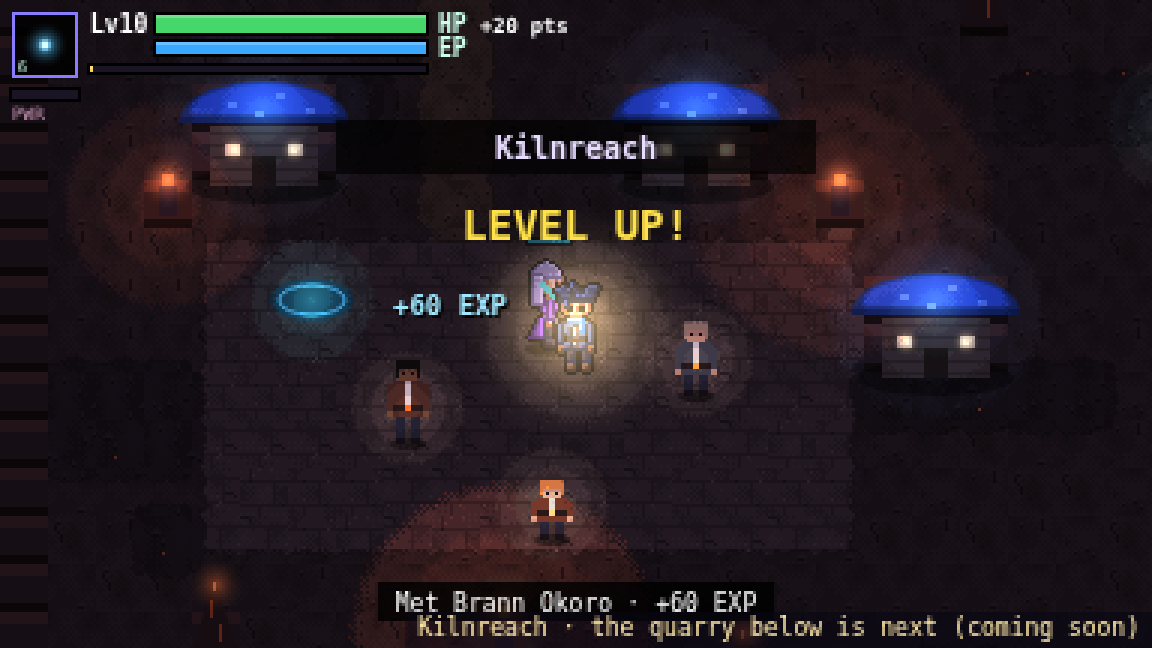
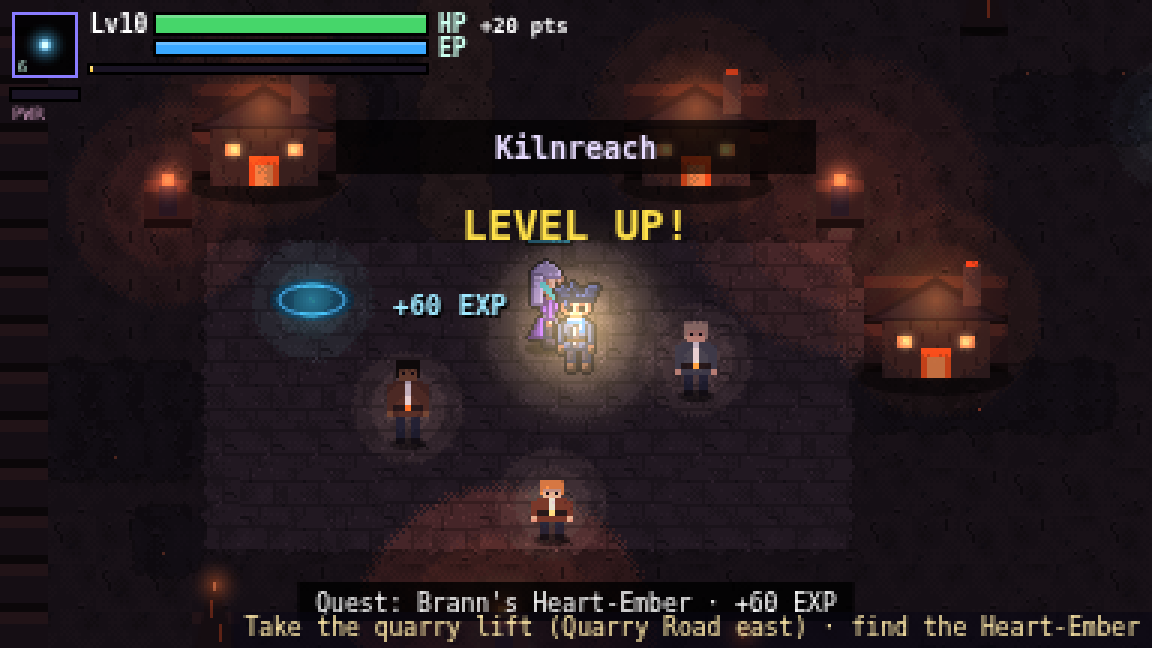
W7: forge houses, Emberheart Quarry + boss arena slot, Brann quest (flags.brann)

diff --git a/src/areas/art.ts b/src/areas/art.ts
@@ -42,6 +42,16 @@ export function tile(c: C2, theme: "moss" | "marsh" | "ember", v: number, X: num
   else { const p = v === T_MOSS ? P.moss : v === T_PATH ? P.path : P.floor; c.fillStyle = p[ch]; c.fillRect(X, Y, TILE, TILE); }
 }
 
+function forge(c: C2, x: number, y: number) {
+  // ember-theme house: stone smithy with slate roof, chimney and a glowing forge mouth
+  c.fillStyle = "rgba(0,0,0,.45)"; c.beginPath(); c.ellipse(x, y + 10, 26, 6, 0, 0, 7); c.fill();
+  c.fillStyle = "#4a3a34"; c.fillRect(x - 18, y - 10, 36, 20); c.fillStyle = "#3a2c28"; for (let i = 0; i < 5; i++) for (let j = 0; j < 4; j++) c.fillRect(x - 18 + j * 9 + (i % 2) * 4, y - 9 + i * 4, 1, 3);
+  c.fillStyle = "#ff7a2a"; c.fillRect(x - 5, y, 10, 10); c.fillStyle = "#ffd070"; c.fillRect(x - 3, y + 3, 6, 7);
+  c.fillStyle = "#ffb060"; c.fillRect(x - 13, y - 4, 5, 4); c.fillRect(x + 8, y - 4, 5, 4);
+  c.fillStyle = "#2a2226"; c.beginPath(); c.moveTo(x - 24, y - 9); c.lineTo(x, y - 24); c.lineTo(x + 24, y - 9); c.fill();
+  c.fillStyle = "#3a3036"; c.beginPath(); c.moveTo(x - 20, y - 10); c.lineTo(x, y - 21); c.lineTo(x + 20, y - 10); c.fill();
+  c.fillStyle = "#5a4a44"; c.fillRect(x + 9, y - 28, 6, 14); c.fillStyle = "#ff6a2a"; c.fillRect(x + 10, y - 29, 4, 2);
+}
 function house(c: C2, x: number, y: number) {
   // 3x2 tile footprint centred at (x, y): wooden walls under a giant blue mushroom cap
   c.fillStyle = "rgba(0,0,0,.4)"; c.beginPath(); c.ellipse(x, y + 10, 26, 6, 0, 0, 7); c.fill();
@@ -104,7 +114,7 @@ export function worldSprites(c: C2, g: Game, cx: number, cy: number, list: { y: 
   for (const p of a.props) {
     const X = p.x - cx, Y = p.y - cy;
     if (X < -40 || X > 424 || Y < -40 || Y > 260) continue;
-    list.push({ y: p.y + (p.kind === "house" ? 8 : 0), d: () => p.kind === "house" ? house(c, X, Y) : p.kind === "crystal" ? crystal(c, X, Y) : p.kind === "tree" ? (a.theme === "ember" ? spire(c, X, Y) : tree(c, X, Y, marsh)) : grave(c, X, Y) });
+    list.push({ y: p.y + (p.kind === "house" ? 8 : 0), d: () => p.kind === "house" ? (a.theme === "ember" ? forge(c, X, Y) : house(c, X, Y)) : p.kind === "crystal" ? crystal(c, X, Y) : p.kind === "tree" ? (a.theme === "ember" ? spire(c, X, Y) : tree(c, X, Y, marsh)) : grave(c, X, Y) });
   }
   for (const n of a.npcs) list.push({ y: n.y, d: () => npc(c, n.id, a.id, n.x - cx, n.y - cy, g.time) });
   for (const s of a.travel) {
@@ -119,7 +129,7 @@ export function bindStory(s: Story) { st = s; }
 /** Light sources for the multiply layer. */
 export function worldLights(g: Game, cx: number, cy: number, add: (x: number, y: number, r: number, col: [number, number, number], f: number) => void) {
   for (const p of g.area.props) if (p.kind === "crystal") add(p.x - cx, p.y - cy - 8, 40, [0.45, 0.95, 1], 0);
-  for (const p of g.area.props) if (p.kind === "house") add(p.x - cx, p.y - cy - 12, 56, [0.35, 0.55, 1], 0);
+  for (const p of g.area.props) if (p.kind === "house") add(p.x - cx, p.y - cy - 12, 56, g.area.theme === "ember" ? [1, 0.5, 0.2] : [0.35, 0.55, 1], 0);
   for (const s of g.area.travel) add(s.x - cx, s.y - cy, 52, [0.7, 0.9, 1], 0);
   for (const n of g.area.npcs) add(n.x - cx, n.y - cy - 12, 30, [0.8, 0.75, 0.7], 0);
   for (const s of g.area.springs) add(s.x - cx, s.y - cy, 60, [0.5, 1, 0.8], 0);
@@ -128,7 +138,7 @@ export function worldLights(g: Game, cx: number, cy: number, add: (x: number, y:
 /** Additive glows after the light layer. */
 export function worldGlow(c: C2, g: Game, cx: number, cy: number, glow: (c: C2, x: number, y: number, r: number, col: string, a?: number) => void) {
   for (const p of g.area.props) {
-    if (p.kind === "house") { glow(c, p.x - cx, p.y - cy - 16, 22, "rgba(80,140,255,.35)"); glow(c, p.x - cx - 10, p.y - cy - 2, 5, "rgba(255,210,140,.7)"); glow(c, p.x - cx + 10, p.y - cy - 2, 5, "rgba(255,210,140,.7)"); }
+    if (p.kind === "house") { glow(c, p.x - cx, p.y - cy - 16, 22, g.area.theme === "ember" ? "rgba(255,120,40,.35)" : "rgba(80,140,255,.35)"); glow(c, p.x - cx - 10, p.y - cy - 2, 5, "rgba(255,210,140,.7)"); glow(c, p.x - cx + 10, p.y - cy - 2, 5, "rgba(255,210,140,.7)"); }
     else if (p.kind === "crystal") glow(c, p.x - cx + 2, p.y - cy - 8, 14, "rgba(120,240,255,.5)");
     else if (p.kind === "tree") glow(c, p.x - cx, p.y - cy - 17, 10, g.area.theme === "marsh" ? "rgba(170,110,255,.45)" : g.area.theme === "ember" ? "rgba(255,110,40,.4)" : "rgba(90,220,240,.4)");
   }
@@ -201,7 +211,7 @@ export function areaMap(c: C2, g: Game, ox: number, oy: number, s: number) {
 
 /** World-map flight screen: the Mirrorfen Reaches, a dotted route and the hero's glow riding the updraft. */
 const SPOTS: Record<string, { x: number; y: number; name: string }> = {
-  lanternmoss: { x: 0.28, y: 0.58, name: "Lanternmoss Hollow" }, hushwater: { x: 0.7, y: 0.38, name: "Hushwater" }, kilnreach: { x: 0.86, y: 0.72, name: "Kilnreach" },
+  lanternmoss: { x: 0.28, y: 0.58, name: "Lanternmoss Hollow" }, hushwater: { x: 0.7, y: 0.38, name: "Hushwater" }, kilnreach: { x: 0.86, y: 0.72, name: "Kilnreach" }, emberquarry: { x: 0.9, y: 0.84, name: "Emberheart Quarry" },
 };
 const LOCKED = [{ x: 0.3, y: 0.8, name: "Wellspring Grotto" }, { x: 0.52, y: 0.16, name: "???" }];
 function flightMap(c: C2, g: Game, s: Story, W: number, H: number) {

diff --git a/src/story/index.ts b/src/story/index.ts
@@ -84,6 +84,7 @@ export class Story {
     }
     for (const s of g.area.travel) if (Math.hypot(s.x - g.p.x, s.y - g.p.y) < 10 && !this.flags.stoneT) {
       this.flags.stoneT = true;
+      if (s.to === "emberquarry" && !this.flags.brannQ) { this.say("Quarry lift", ["A rune-lift down into the quarry. It's locked with a smith's seal.", "Brann in Forge Square would have the key."]); return true; }
       if (s.to === "kilnreach" && !this.flags.oath) { this.say("Updraft stone", ["This slab is cold and points east, toward a red glow on the mountains.", "It won't wake for a stranger. Maybe after Mirela trusts you."]); return true; }
       this.say("Updraft stone", [`The rune slab hums. Ride the updraft to ${s.label}?`, "(Melee to fly. Step off to stay.)"], () => { this.fly = 3.2; this.flyTo = s.to; this.flyFrom = g.area.id; });
       return true;
@@ -103,6 +104,7 @@ export class Story {
       const k = `orb_${g.area.id}_${o.i}`;
       if (!this.flags[k] && Math.hypot(o.x - g.p.x, o.y + 6 - g.p.y) < 14) {
         this.flags[k] = true;
+        if (g.area.id === "emberquarry") { this.flags.heart = true; this.save(); g.say("Found Brann's Heart-Ember · bring it to Brann", 2.5); continue; }
         if (g.area.id !== "lanternmoss") { this.flags.bell = true; this.save(); g.say("Found the Ferry Bell · bring it to Fen Marrow", 2.5); continue; }
         this.flags.orbs = ((this.flags.orbs as number) || 0) + 1; this.save();
         const st = g.stats as Record<string, number>; st.talks = (st.talks ?? 0) + 1;
@@ -128,14 +130,16 @@ export class Story {
       if (id === "f" && F.bell && !F.bellDone) { F.bellDone = true; g.gainExp(80); g.say("Ferry Bell returned · +80 EXP", 2.5); }
       if (id === "h") { if (!F.reedQ) F.reedQ = true; else if ((F.reedN as number) >= 8 && !F.reedDone) { F.reedDone = true; g.gainExp(100); g.pts += 2; g.say("Quiet the Meadow complete · +100 EXP, +2 pts", 2.5); } }
       if (id === "m" && F.bellDone && F.reedDone && !F.oath) { F.oath = true; g.gainExp(150); g.say("Lantern Oath · Mirela will join you · +150 EXP", 3); }
-      if (id === "k" && !F.metBrann) { F.metBrann = true; g.gainExp(60); g.say("Met Brann Okoro · +60 EXP", 2.5); }
+      if (id === "k" && !F.metBrann) { F.metBrann = true; F.brannQ = true; g.gainExp(60); g.say("Quest: Brann's Heart-Ember · +60 EXP", 2.5); }
+      else if (id === "k" && F.heart && !F.brann) { F.brann = true; g.gainExp(150); g.pts += 2; g.say("Heart-Ember returned · Brann will join you · +150 EXP", 3); }
       if (id === "p" && (this.flags.orbs as number) >= 6 && !this.flags.orbsDone) { this.flags.orbsDone = true; g.gainExp(120); g.say("Lost Lanterns complete · +120 EXP", 2.5); }
       this.flags["talked_" + g.area.id + id] = true; this.save();
     });
   }
   objective(): string {
     const f = this.flags, g = this.g;
-    if (g.area.id === "kilnreach") return f.metBrann ? "Kilnreach · the quarry below is next (coming soon)" : "Find the quarry-smith in Forge Square";
+    if (g.area.id === "kilnreach") return f.brann ? "Brann is with you · the Quarry Heart waits below" : f.heart ? "Bring the Heart-Ember to Brann" : f.metBrann ? "Take the quarry lift (Quarry Road east) · find the Heart-Ember" : "Find the quarry-smith in Forge Square";
+    if (g.area.id === "emberquarry") return f.heart ? (f.brann ? "The Quarry Heart: something drinks the embers" : "Return the Heart-Ember to Brann") : "Find Brann's Heart-Ember in the seam";
     if (g.area.id === "hushwater") {
       if (!f.metMirela) return "Find the graveyard keeper on the hill";
       if (f.oath) return "Mirela is with you · Grotto in Lanternmoss · east stone wakes";

diff --git a/src/areas/maps.ts b/src/areas/maps.ts
@@ -103,7 +103,7 @@ export const KILNREACH = [
   "#..............................................#",
   "#...T.....L,,,.................................#",
   "#.....####.....T...,,,.....................,,,.#",
-  "#.....#####.......::::::::::::::::::::T:.......#",
+  "#.....#####.......::::::::::::::::::::T:.Y.....#",
   "#....#######...................................#",
   "#....#######..............g...,,,.,,,.#.###.g,,#",
   "#.....#####.........w............w...#######...#",
@@ -114,3 +114,43 @@ export const KILNREACH = [
   "#................,,,.##.................##,...,#",
   "################################################",
 ];
+
+/** Emberheart Quarry: lava-lit tunnels under Kilnreach; the round chamber at (38,16) is the quarry boss arena slot (Master Builder). */
+export const EMBERQUARRY = [
+  "################################################",
+  "################################################",
+  "##.....#########################################",
+  "##.U.L..########################################",
+  "#.....S.######################.....#############",
+  "#...@.....###################..w...#############",
+  "###..........################....*..############",
+  "######........##############........############",
+  "#######...g...############........T.############",
+  "#######.....T.########...............###########",
+  "########....#########.....w....#....=##=########",
+  "#######.....########.T.~.....####.========######",
+  "#######.....########..~~~...L####===========####",
+  "#######.....#########..~~....###=============###",
+  "#####..w....#########.g......##===============##",
+  "####.........#########.......###==============##",
+  "####....~~~L.############.....#===============##",
+  "####.T..~~~.##############.....===============##",
+  "#####....~~..#############......==============##",
+  "######........#############...g.=============###",
+  "#########.....#############......===========####",
+  "#########........##########....K.#========######",
+  "##########........########....L..###==#=########",
+  "##########.....g...######......#################",
+  "##########...........#...L....##################",
+  "##########.......T.......~~..###################",
+  "###########.w...........~~~.####################",
+  "############.....#......~~..w###################",
+  "####################..g....T.###################",
+  "#####################.......####################",
+  "######################......####################",
+  "################################################",
+  "################################################",
+  "################################################",
+];
+/** Quarry boss arena centre (tiles) for Master Builder's boss: open round chamber, radius ~7. */
+export const QUARRY_ARENA = { tx: 38, ty: 16, r: 7 };

diff --git a/src/story/script.ts b/src/story/script.ts
@@ -45,8 +45,10 @@ export const NPCS: Record<string, Record<string, NpcDef>> = {
   },
   kilnreach: {
     k: { name: "Brann Okoro", coat: "#5a3428", hair: "#1a1210", skin: "#8a5a3a", trim: "#ff7a2a", tall: 2, lines: (f) =>
-      f.metBrann ? ["The mountain's heartbeat is skipping. Something below the quarry is drinking the embers, same as your spring.", "When you go down there, I'm coming. My hammer's been bored for weeks."]
-        : ["You flew in on the updraft? Ha. Nobody uses that slab anymore.", "Brann Okoro, quarry-smith. Where I come from the stone has a heartbeat, and I keep it warm with mine.", "You're the lamp-lighter? Then we're after the same thief. Something is draining things: your water, my fire."] },
+      f.brann ? ["That's my heart-ember, still warm. I owe you a mountain.", "Down in the Quarry Heart, something big is drinking. When you go, my hammer goes with you."]
+      : f.heart ? ["You found it! Hand it here. Carefully."]
+      : f.metBrann ? ["Still looking? The seam is past the galleries, north and east from the lift. It glows like a coal.", "The mountain's heartbeat's heartbeat is skipping. Something below the quarry is drinking the embers, same as your spring.", "When you go down there, I'm coming. My hammer's been bored for weeks."]
+        : ["You flew in on the updraft? Ha. Nobody uses that slab anymore.", "Brann Okoro, quarry-smith. Where I come from the stone has a heartbeat, and I keep it warm with mine.", "You're the lamp-lighter? Then we're after the same thief. Something is draining things: your water, my fire.", "I dropped my Heart-Ember in the quarry when the shades came. It's the core that keeps my forge, and me, warm. Here's the lift seal. Bring it back?"] },
     q: { name: "Dace Holloway", coat: "#4a4a50", hair: "#c0a080", skin: "#d8a080", trim: "#ffb040", lines: () =>
       ["Quarry Road's crawling with cinder-shades since the ember-veins started dimming.", "Mind the flow. Lava only looks slow."] },
     e: { name: "Tib", coat: "#7a3a2a", hair: "#ff9a4a", skin: "#e8b890", trim: "#ffe080", tall: -7, lines: () =>

diff --git a/src/world.ts b/src/world.ts
@@ -1,5 +1,5 @@
 /** Areas: ASCII maps (src/areas/maps.ts) -> tiles, lamps, props, NPCs, spawns, gates and updraft stones. */
-import { LANTERNMOSS, HUSHWATER, KILNREACH } from "./areas/maps";
+import { LANTERNMOSS, HUSHWATER, KILNREACH, EMBERQUARRY } from "./areas/maps";
 export const TILE = 16;
 export const MW = 48, MH = 34;
 export const T_FLOOR = 0, T_WALL = 1, T_MOSS = 2, T_PLAZA = 3, T_WATER = 4, T_PATH = 5, T_BOARD = 6, T_WARD = 7, T_HIDDEN = 8;
@@ -31,9 +31,15 @@ export const AREA_DEFS: Record<string, Def> = {
     zones: [{ name: "Hushwater Landing", x0: 1, y0: 1, x1: 5, y1: 6 }, { name: "Hushwater Town", x0: 16, y0: 5, x1: 33, y1: 13 },
       { name: "Lantern Graveyard", x0: 34, y0: 1, x1: 46, y1: 9 }, { name: "Sunken Meadow", x0: 0, y0: 14, x1: 47, y1: 33 }, { name: "Hushwater Fen", x0: 0, y0: 0, x1: 47, y1: 33 }],
   },
+  emberquarry: {
+    id: "emberquarry", name: "Emberheart Quarry", music: "area1-theme", theme: "ember", rows: EMBERQUARRY, lamp: [1, 0.4, 0.2],
+    to: "kilnreach", toLabel: "Kilnreach", wardLvl: 0,
+    zones: [{ name: "Quarry Heart", x0: 31, y0: 9, x1: 46, y1: 23 }, { name: "Smith's Lift", x0: 1, y0: 2, x1: 8, y1: 6 }, { name: "Heart-Ember Seam", x0: 28, y0: 3, x1: 36, y1: 9 },
+      { name: "Cinder Galleries", x0: 0, y0: 0, x1: 47, y1: 33 }],
+  },
   kilnreach: {
     id: "kilnreach", name: "Kilnreach", music: "area1-theme", theme: "ember", rows: KILNREACH, lamp: [1, 0.45, 0.25],
-    to: "hushwater", toLabel: "Hushwater", wardLvl: 0,
+    to: "hushwater", toLabel: "Hushwater", to2: "emberquarry", to2Label: "Emberheart Quarry", wardLvl: 0,
     zones: [{ name: "Kilnreach Forge Square", x0: 3, y0: 13, x1: 18, y1: 21 }, { name: "Cinder Landing", x0: 1, y0: 1, x1: 9, y1: 5 },
       { name: "Emberflow", x0: 13, y0: 1, x1: 35, y1: 18 }, { name: "Quarry Road", x0: 17, y0: 22, x1: 40, y1: 26 }, { name: "Kilnreach Slopes", x0: 0, y0: 0, x1: 47, y1: 33 }],
   },

diff --git a/HANDOFF.md b/HANDOFF.md
@@ -32,3 +32,10 @@
 - Balance: expNext = 12*l^1.3 (about 534 EXP to Lv 8). Quest rewards now use g.gainExp, so they trigger level-ups. Brann gives +60.
 - tests/world.mjs has 25 checks. Integrated Mirela companion (239188d); docs/bill/mirela.png is copied from companion-fight.png.
 - Next: themed Kilnreach houses (they still use the mushroom roof), a quarry dungeon with a boss, Brann joining.
+
+## W7 (executor, 11:10 PM): forge houses, Emberheart Quarry, Brann quest
+- Kilnreach houses now draw as ember-theme stone smithies (slate roof, chimney, glowing forge door, orange light).
+- New area `emberquarry` "Emberheart Quarry" (maps.ts EMBERQUARRY): lift `U` back to Kilnreach, save `S`, warm spring `K`, 10 spawns, lava pools, Heart-Ember orb `*` at (33,6).
+- **Boss arena slot for Master Builder:** a round open chamber, zone "Quarry Heart", exported as `QUARRY_ARENA = { tx: 38, ty: 16, r: 7 }` from src/areas/maps.ts. No boss is wired there yet.
+- Brann quest: talking to him the first time sets metBrann and brannQ (+60 EXP) and unseals the Kilnreach quarry lift `Y` (Quarry Road east). Picking up the orb sets flags.heart. Handing it in sets **flags.brann** (+150 EXP, +2 pts). Companion join is Master Builder's: hook on flags.brann the same way as Mirela/oath.
+- tests/world.mjs is now 29/29. Screenshots: docs/bill/kilnreach.png, quarry.png, quarry-arena.png.
